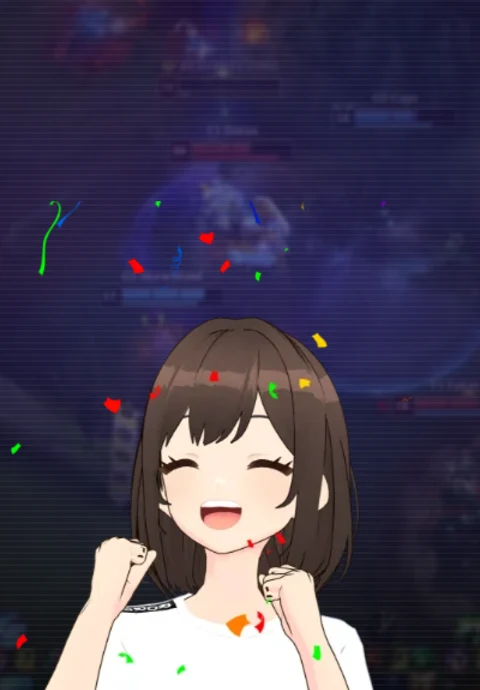
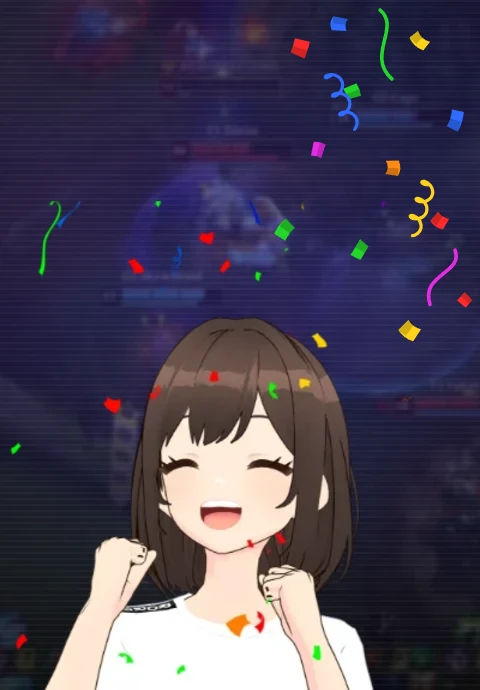
Side ads: left gets an ENERGY-mint ray background, right gets confetti in the empty top-right

diff --git a/index.html b/index.html
@@ -2025,8 +2025,8 @@ span.pm-tile{display:inline-flex;align-items:center;justify-content:center}span.
   </div>
   <p>Pitch Interactive Inc. · © 2026</p>
 </div></footer>
-<aside class="siderail l" aria-label="Advertisement"><a class="rail-ad" href="#muse"><span class="adl">AD</span><img class="ra-img" src="assets/muse-ad-left.webp?v=2" alt=""><div class="ra-b"><div class="ra-k">CHROME SIDE PANEL</div><h3>Watch with Muse.</h3><p>She talks first when the match turns.</p><span class="pill sm">Watch with Muse</span></div></a></aside>
-<aside class="siderail r" aria-label="Advertisement"><a class="rail-ad" href="#muse"><span class="adl">AD</span><img class="ra-img" src="assets/muse-ad-right.webp?v=2" alt=""><div class="ra-b"><div class="ra-k">MUSE</div><h3>Cheer your team together.</h3><p>Pick your team. Muse cheers every fight with you, right beside the stream.</p><span class="pill sm">Watch with Muse</span></div></a></aside>
+<aside class="siderail l" aria-label="Advertisement"><a class="rail-ad" href="#muse"><span class="adl">AD</span><img class="ra-img" src="assets/muse-ad-left.webp?v=3" alt=""><div class="ra-b"><div class="ra-k">CHROME SIDE PANEL</div><h3>Watch with Muse.</h3><p>She talks first when the match turns.</p><span class="pill sm">Watch with Muse</span></div></a></aside>
+<aside class="siderail r" aria-label="Advertisement"><a class="rail-ad" href="#muse"><span class="adl">AD</span><img class="ra-img" src="assets/muse-ad-right.webp?v=3" alt=""><div class="ra-b"><div class="ra-k">MUSE</div><h3>Cheer your team together.</h3><p>Pick your team. Muse cheers every fight with you, right beside the stream.</p><span class="pill sm">Watch with Muse</span></div></a></aside>
 <button class="askfab" type="button" onclick="openChat()" aria-label="Ask RORR"><span class="af-i" aria-hidden="true">✦</span><span class="af-t">Ask RORR</span><kbd>/</kbd></button>
 <div class="mdemo" id="mdemo" role="dialog" aria-modal="true" aria-label="Muse preview">
  <div class="md-wrap">

diff --git a/portal.html b/portal.html
@@ -2025,8 +2025,8 @@ span.pm-tile{display:inline-flex;align-items:center;justify-content:center}span.
   </div>
   <p>Pitch Interactive Inc. · © 2026</p>
 </div></footer>
-<aside class="siderail l" aria-label="Advertisement"><a class="rail-ad" href="#muse"><span class="adl">AD</span><img class="ra-img" src="assets/muse-ad-left.webp?v=2" alt=""><div class="ra-b"><div class="ra-k">CHROME SIDE PANEL</div><h3>Watch with Muse.</h3><p>She talks first when the match turns.</p><span class="pill sm">Watch with Muse</span></div></a></aside>
-<aside class="siderail r" aria-label="Advertisement"><a class="rail-ad" href="#muse"><span class="adl">AD</span><img class="ra-img" src="assets/muse-ad-right.webp?v=2" alt=""><div class="ra-b"><div class="ra-k">MUSE</div><h3>Cheer your team together.</h3><p>Pick your team. Muse cheers every fight with you, right beside the stream.</p><span class="pill sm">Watch with Muse</span></div></a></aside>
+<aside class="siderail l" aria-label="Advertisement"><a class="rail-ad" href="#muse"><span class="adl">AD</span><img class="ra-img" src="assets/muse-ad-left.webp?v=3" alt=""><div class="ra-b"><div class="ra-k">CHROME SIDE PANEL</div><h3>Watch with Muse.</h3><p>She talks first when the match turns.</p><span class="pill sm">Watch with Muse</span></div></a></aside>
+<aside class="siderail r" aria-label="Advertisement"><a class="rail-ad" href="#muse"><span class="adl">AD</span><img class="ra-img" src="assets/muse-ad-right.webp?v=3" alt=""><div class="ra-b"><div class="ra-k">MUSE</div><h3>Cheer your team together.</h3><p>Pick your team. Muse cheers every fight with you, right beside the stream.</p><span class="pill sm">Watch with Muse</span></div></a></aside>
 <button class="askfab" type="button" onclick="openChat()" aria-label="Ask RORR"><span class="af-i" aria-hidden="true">✦</span><span class="af-t">Ask RORR</span><kbd>/</kbd></button>
 <div class="mdemo" id="mdemo" role="dialog" aria-modal="true" aria-label="Muse preview">
  <div class="md-wrap">
